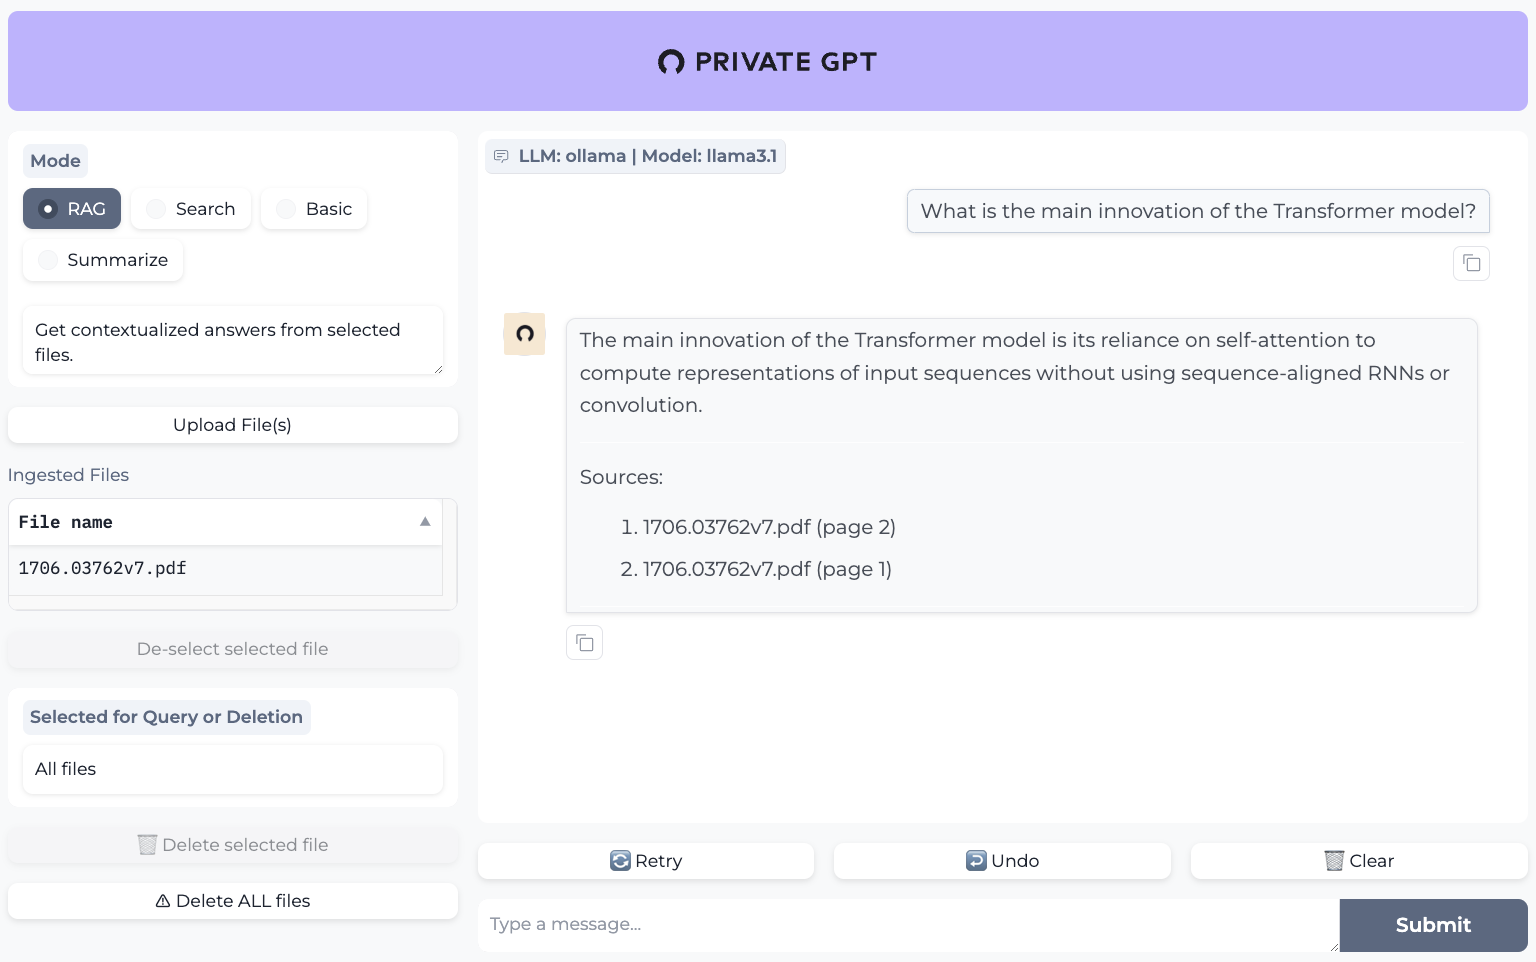
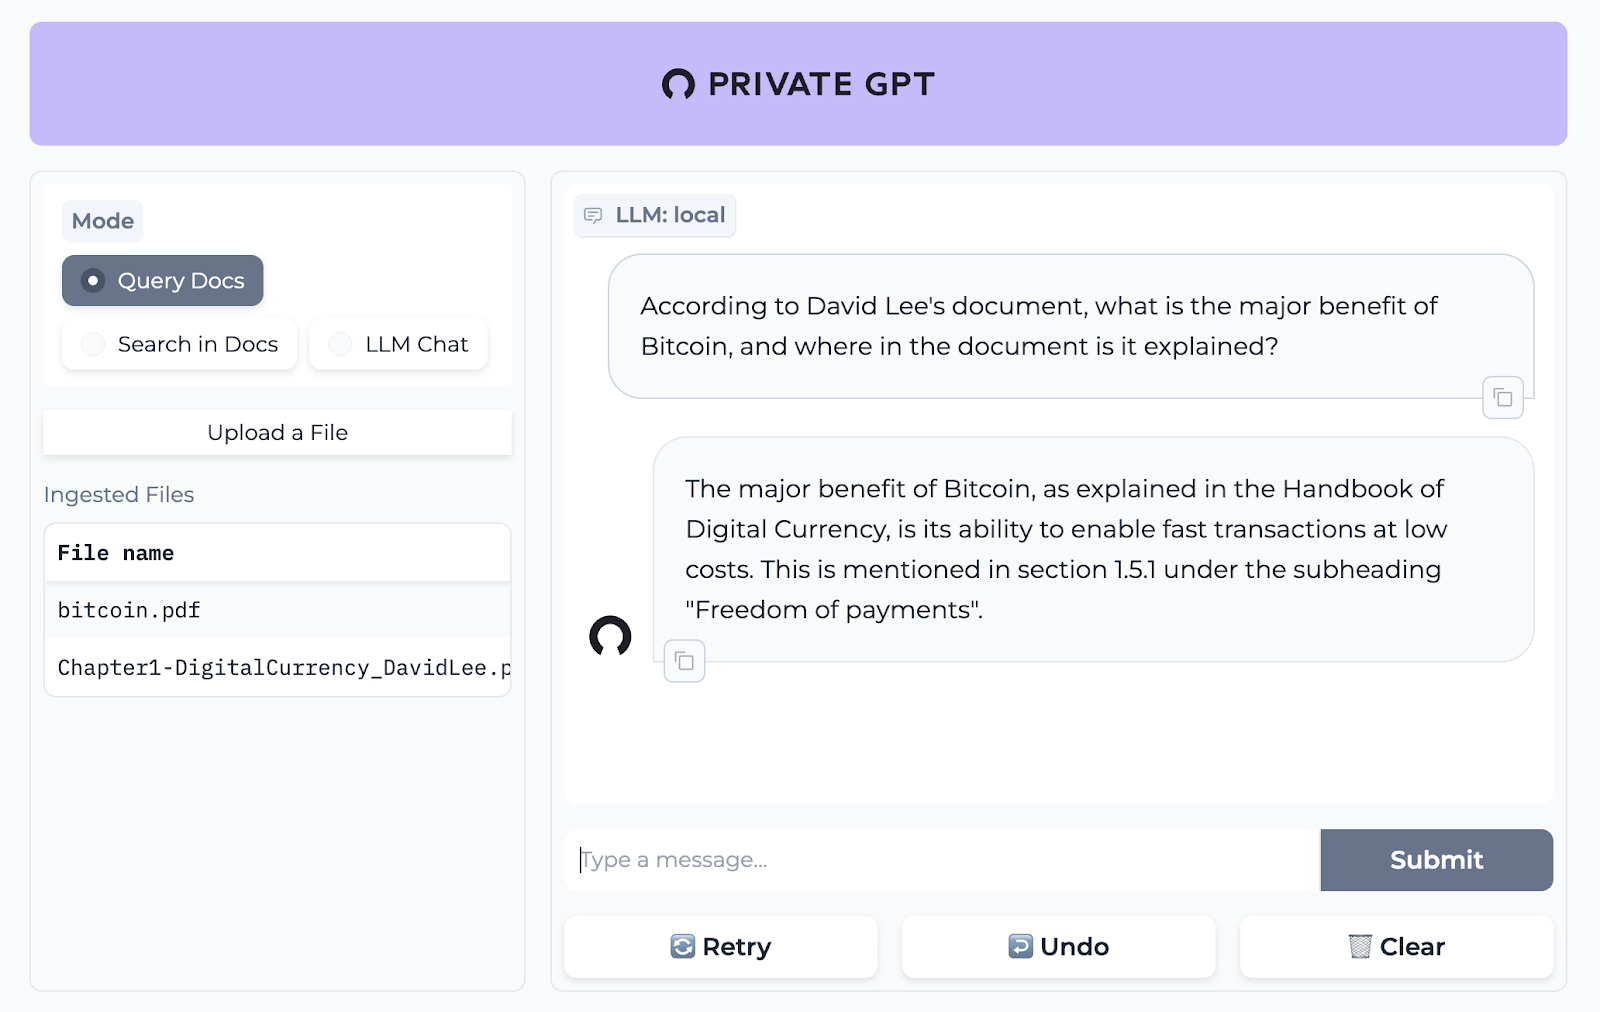
Fix/readme UI image (#1272)

diff --git a/README.md b/README.md
@@ -11,8 +11,7 @@
 > 
 > Join the community: [Twitter](https://twitter.com/PrivateGPT_AI) & [Discord](https://discord.gg/bK6mRVpErU)
 
-
-<img width="900"  alt="demo" src="https://lh3.googleusercontent.com/drive-viewer/AK7aPaBasLxbp49Hrwnmi_Ctii1oIM18nFJrBO0ERSE3wpkS-syjiQBE32_tUSdqnjn6etUDjUSkdJeFa8acqRb0lZbkZ6CyAw=s1600">
+![Gradio UI](/fern/docs/assets/ui.png?raw=true)
 
 PrivateGPT is a production-ready AI project that allows you to ask questions about your documents using the power
 of Large Language Models (LLMs), even in scenarios without an Internet connection. 100% private, no data leaves your
